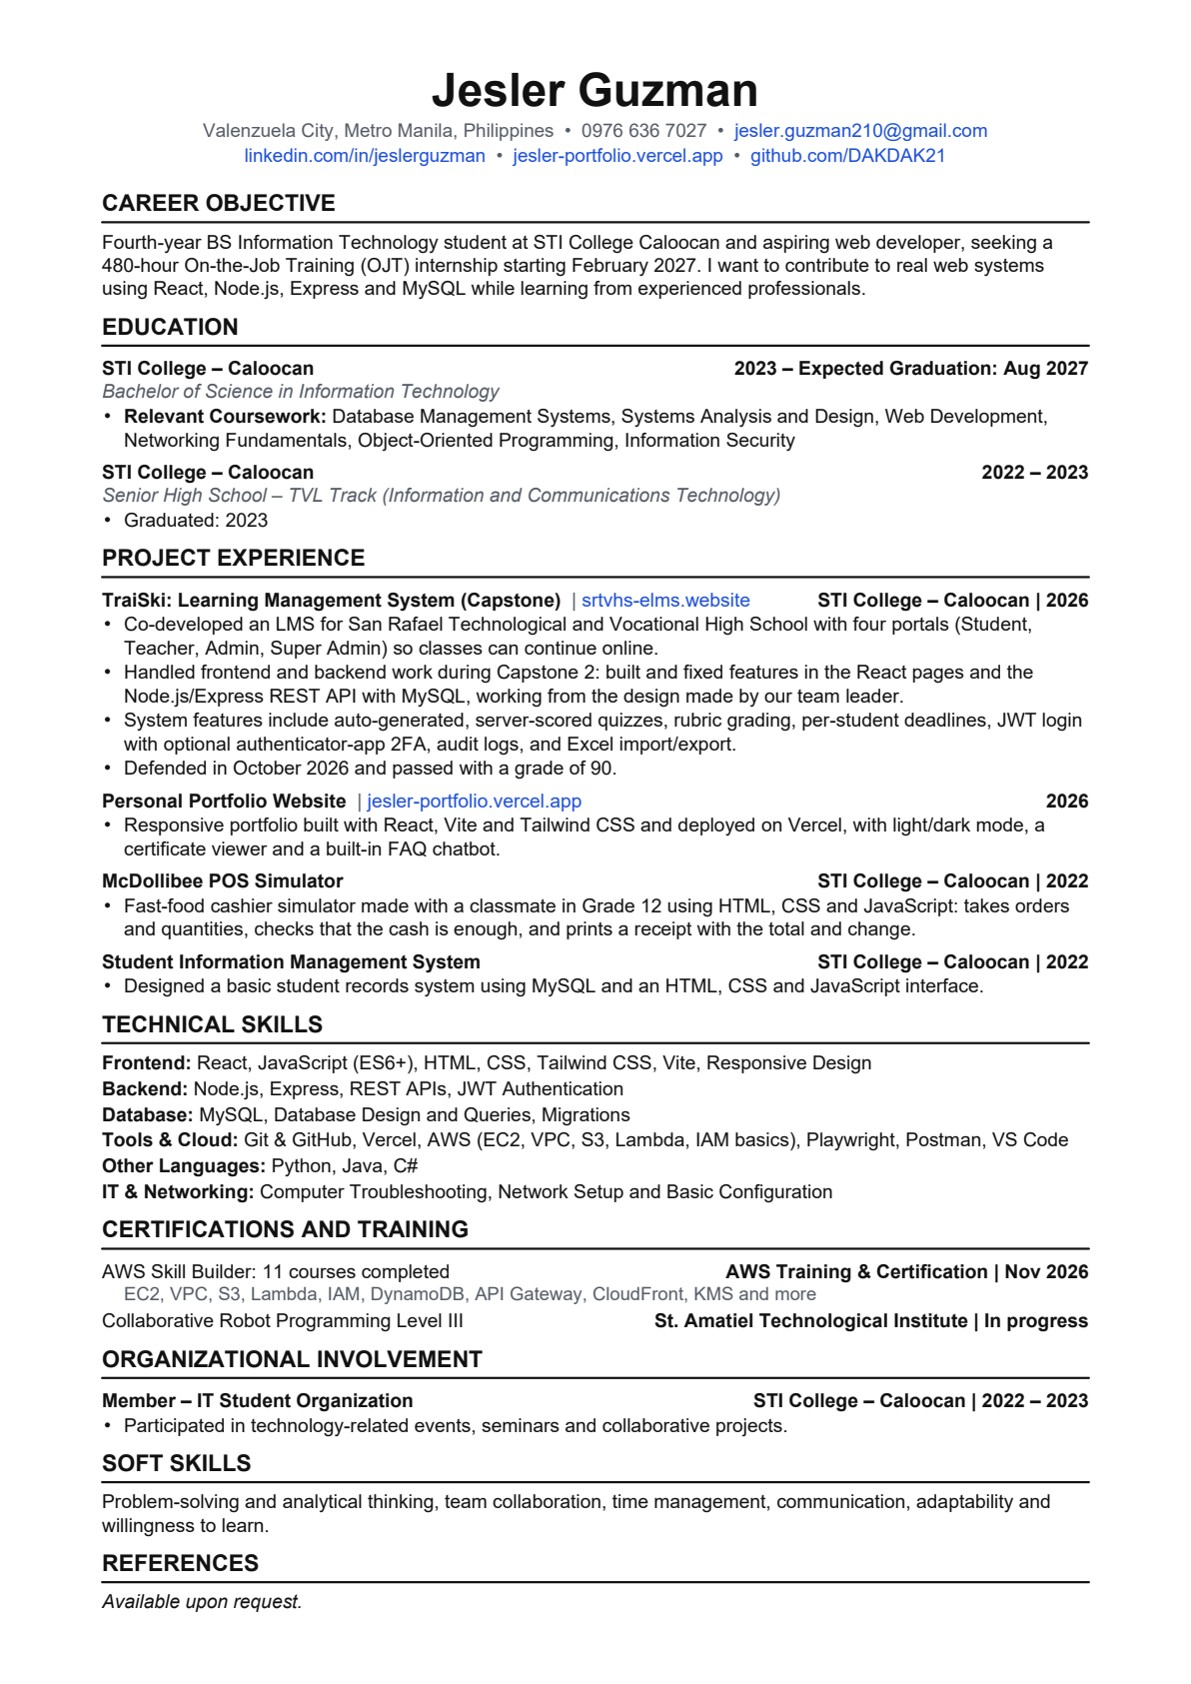
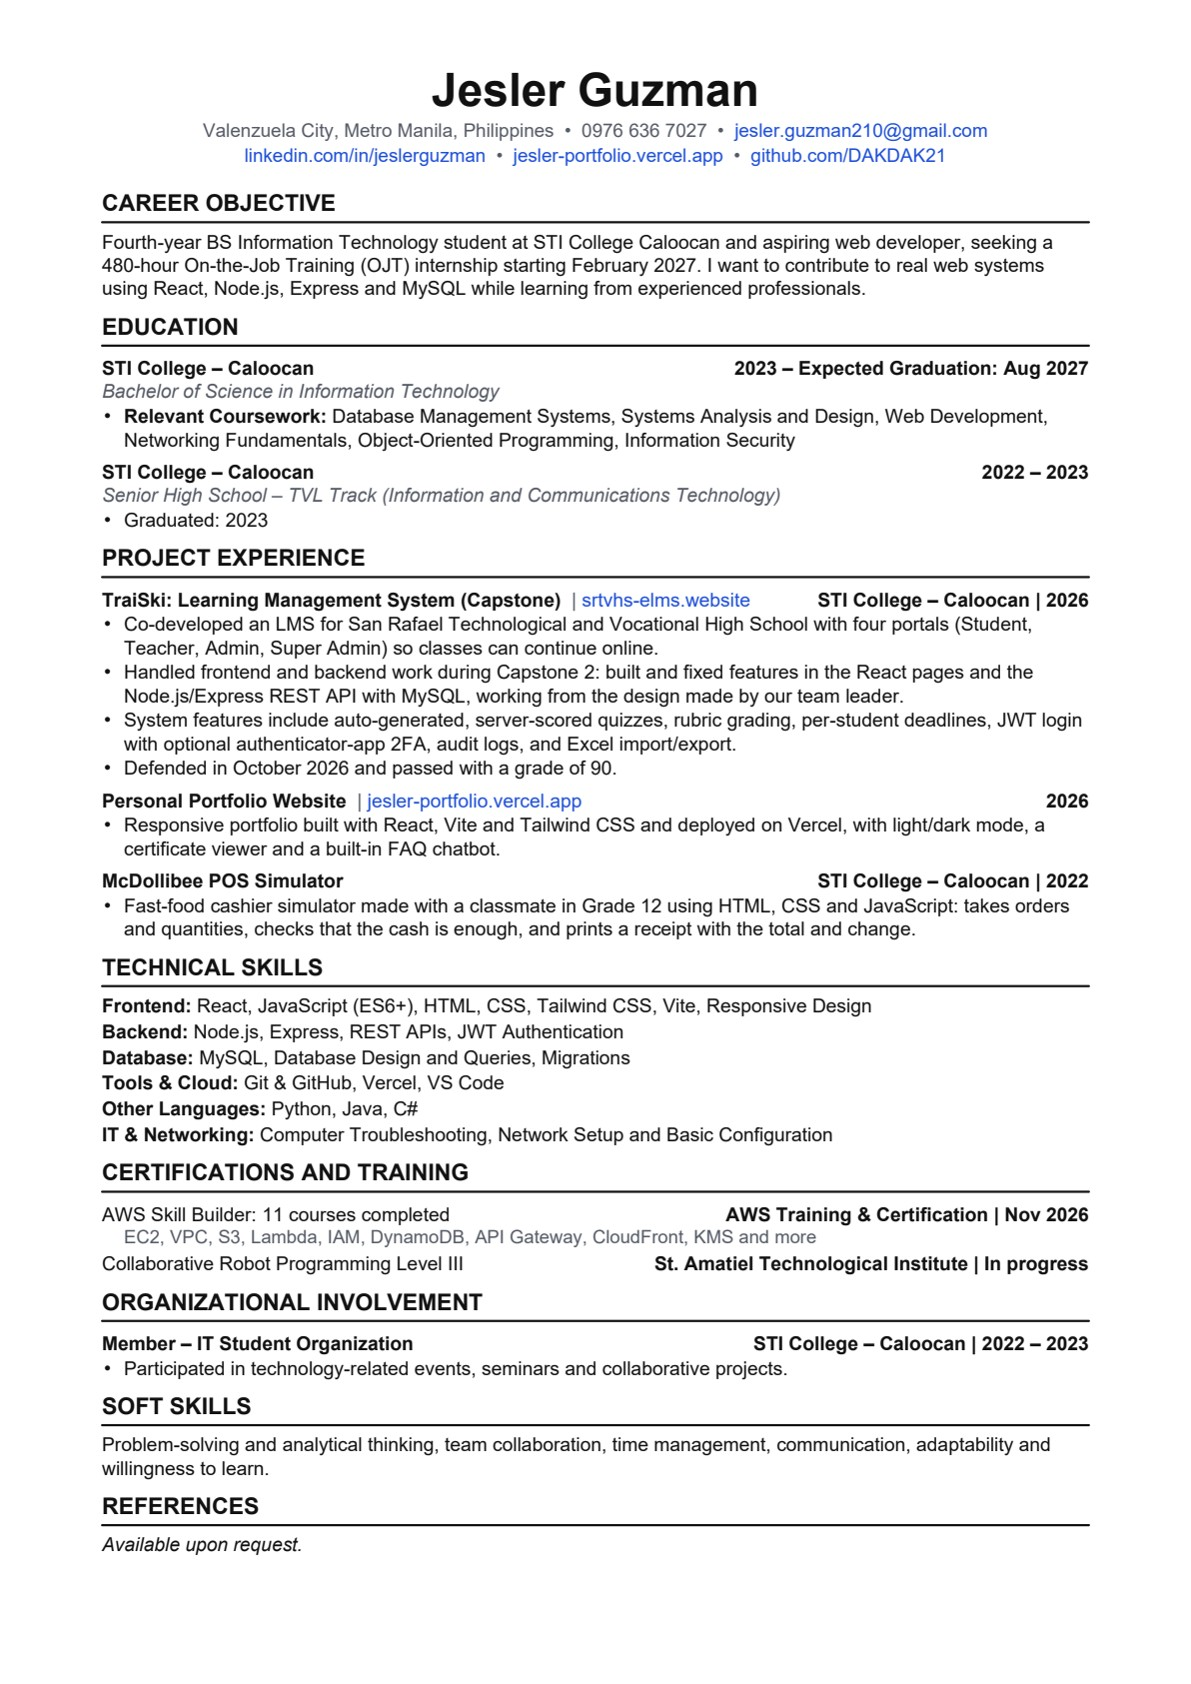
Trim the resume tools list and remove the Student Information Management System

Changed region(s): [[0.0621, 0.5558, 0.932, 0.9572]]

diff --git a/tools/resume/make_resume.py b/tools/resume/make_resume.py
@@ -131,16 +131,13 @@ story += bullets(
     "Fast-food cashier simulator made with a classmate in Grade 12 using HTML, CSS and JavaScript: takes orders "
     "and quantities, checks that the cash is enough, and prints a receipt with the total and change."
 )
-story.append(Spacer(1, 3))
-story.append(row("Student Information Management System", "STI College – Caloocan | 2022"))
-story += bullets("Designed a basic student records system using MySQL and an HTML, CSS and JavaScript interface.")
 
 story += section("Technical Skills")
 for label, value in [
     ("Frontend", "React, JavaScript (ES6+), HTML, CSS, Tailwind CSS, Vite, Responsive Design"),
     ("Backend", "Node.js, Express, REST APIs, JWT Authentication"),
     ("Database", "MySQL, Database Design and Queries, Migrations"),
-    ("Tools &amp; Cloud", "Git &amp; GitHub, Vercel, AWS (EC2, VPC, S3, Lambda, IAM basics), Playwright, Postman, VS Code"),
+    ("Tools &amp; Cloud", "Git &amp; GitHub, Vercel, VS Code"),
     ("Other Languages", "Python, Java, C#"),
     ("IT &amp; Networking", "Computer Troubleshooting, Network Setup and Basic Configuration"),
 ]:
